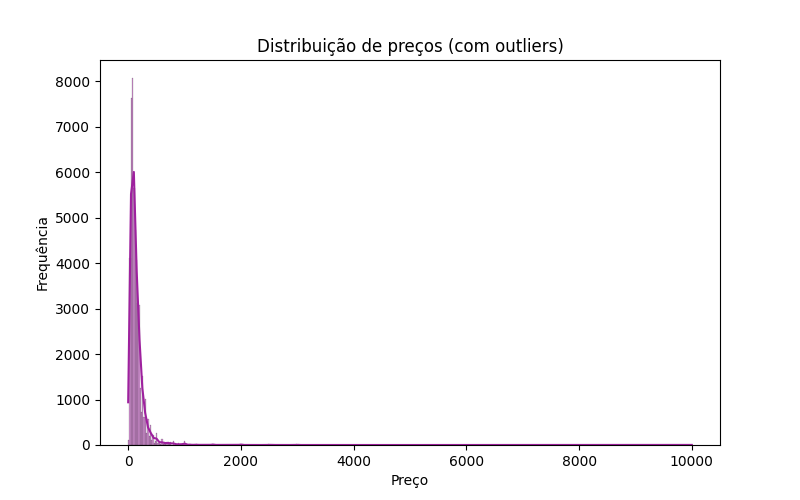
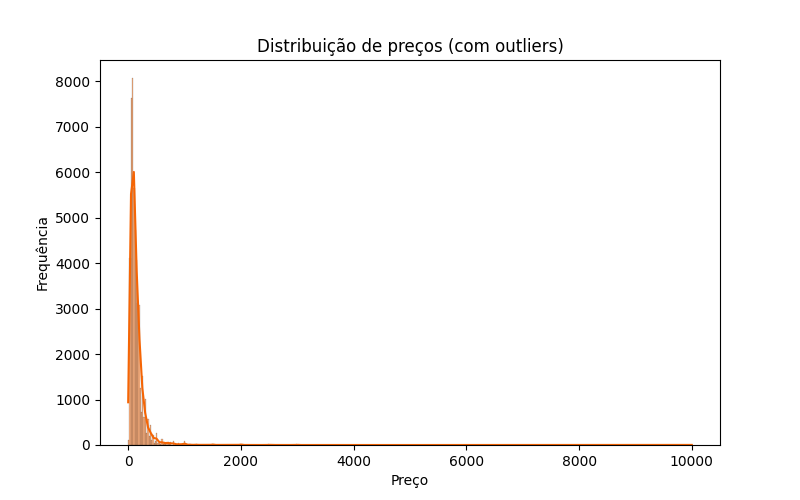
mais analises

Changed region(s): [[0.1562, 0.33, 0.3125, 0.9]]

diff --git a/analysis/analysis.py b/analysis/analysis.py
@@ -5,6 +5,7 @@ import pandas as pd
 import numpy as np
 import matplotlib.pyplot as plt
 import seaborn as sns
+import plotly.express as px
 # %%
 
 # carregando o df 
@@ -50,7 +51,7 @@ plt.figure(figsize=(8,5))
 sns.histplot(
     df["price"],
     kde=True,
-    color="#9E219E",
+    color="#f56505",
     edgecolor='black'
 )
 
@@ -99,7 +100,7 @@ plt.figure(figsize=(8,5))
 sns.histplot(
     df_sem_outliers["price"],
     kde=True,
-    color="#9E219E",
+    color="#f56505",
     edgecolor='black'
 )
 
@@ -111,3 +112,63 @@ plt.savefig("../img/distribuicao_preco_sem_outliers.png")
 
 plt.show()
 # %%
+
+# identificar e plotar os bairros com maior média de preços
+
+media_precos = df.groupby('neighbourhood_group', as_index=False)['price'].mean()
+media_precos.head().sort_values('price', ascending=False)
+# %%
+
+paleta_cores = sns.color_palette("YlOrBr_r")
+
+ax = sns.barplot(
+    data=media_precos,
+    x='neighbourhood_group',
+    y='price',
+    order=['Manhattan', 'Brooklyn', 'Staten Island', 'Queens', 'Bronx'],
+    palette=paleta_cores
+)
+
+plt.title('Média de preços por bairros')
+plt.xlabel('Bairros')
+plt.ylabel('Média de preços')
+
+
+for p in ax.patches:
+    height = p.get_height()
+    ax.text(
+        p.get_x() + p.get_width() / 2,
+        height + 0.1,
+        f'{height:.1f}',
+        ha='center'
+    )
+
+plt.savefig("../img/media_precos_bairros.png")
+
+plt.show()
+# %%
+
+#plotar preço por latitude e longitude
+
+plt.figure(figsize=(10, 8))
+
+plt.scatter(
+    df_sem_outliers['longitude'],
+    df_sem_outliers['latitude'],
+    c=df_sem_outliers['price'],
+    cmap='YlOrBr',
+    s=10
+)
+
+plt.colorbar(label='Preço ($)')
+
+plt.title('Distribuição geográfica dos preços de Airbnb em NYC')
+plt.xlabel('Longitude')
+plt.ylabel('Latitude')
+
+plt.savefig("../img/mapa_precos_geografico.png")
+
+plt.show()
+# %%
+
+
